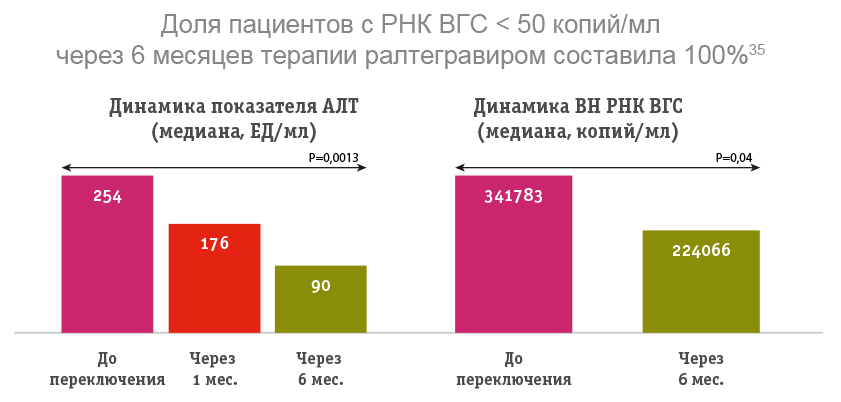
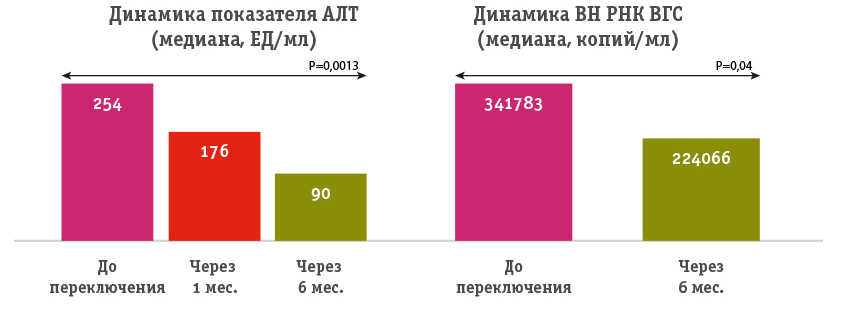
правки заказчиков

diff --git a/css/slides/40/slide.less b/css/slides/40/slide.less
@@ -8,6 +8,17 @@
 	.slide__main{
 		align-items: center;
 	}
+	.diagram__header{
+		text-align: center;
+		margin-top: 20px;
+		margin-bottom: 20px;
+	}
+	.diagram__title{
+		max-width: 800px;
+		display: inline-block;
+		font-weight: normal;
+		font-size: 21px;
+	}
 	.diagram__main{
 		width: 100%;
 		text-align: center;

diff --git a/js/main.js b/js/main.js
@@ -47,6 +47,8 @@
 		}
 	});
 
+	window.mainSlider = mainSlider;
+
 	var page__popups = $('.page__popups');
 	var page__header = $('.page__header');
 	var page__footer = $('.page__footer');

diff --git a/css/blocks/header/__icon/header__icon.less b/css/blocks/header/__icon/header__icon.less
@@ -1,8 +1,5 @@
 .header__icon{
 	margin-bottom: 5px;
 	flex-shrink: 0;
-	&+.header__icon{
-		margin-left: 10px;
-	}
 }
 
